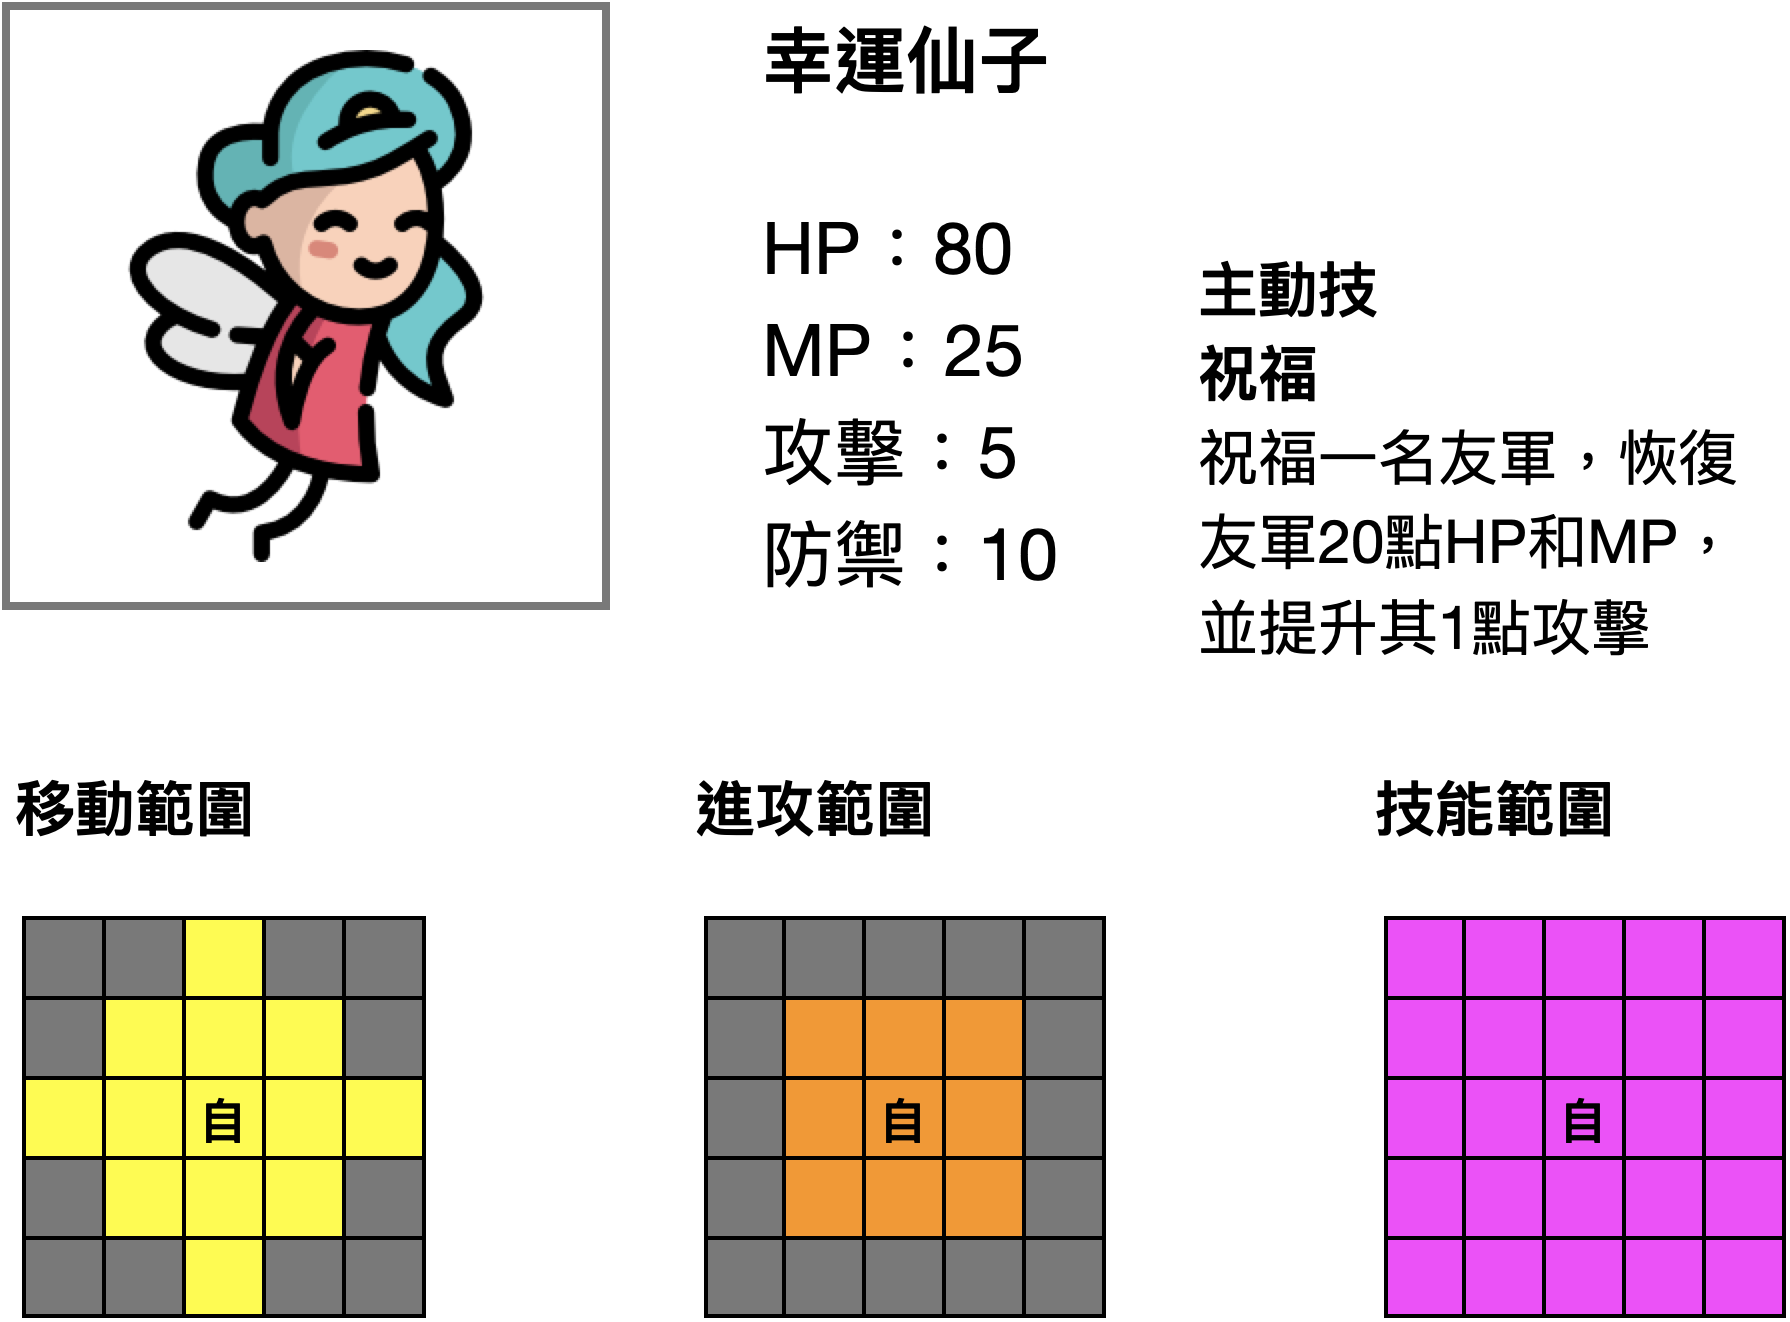
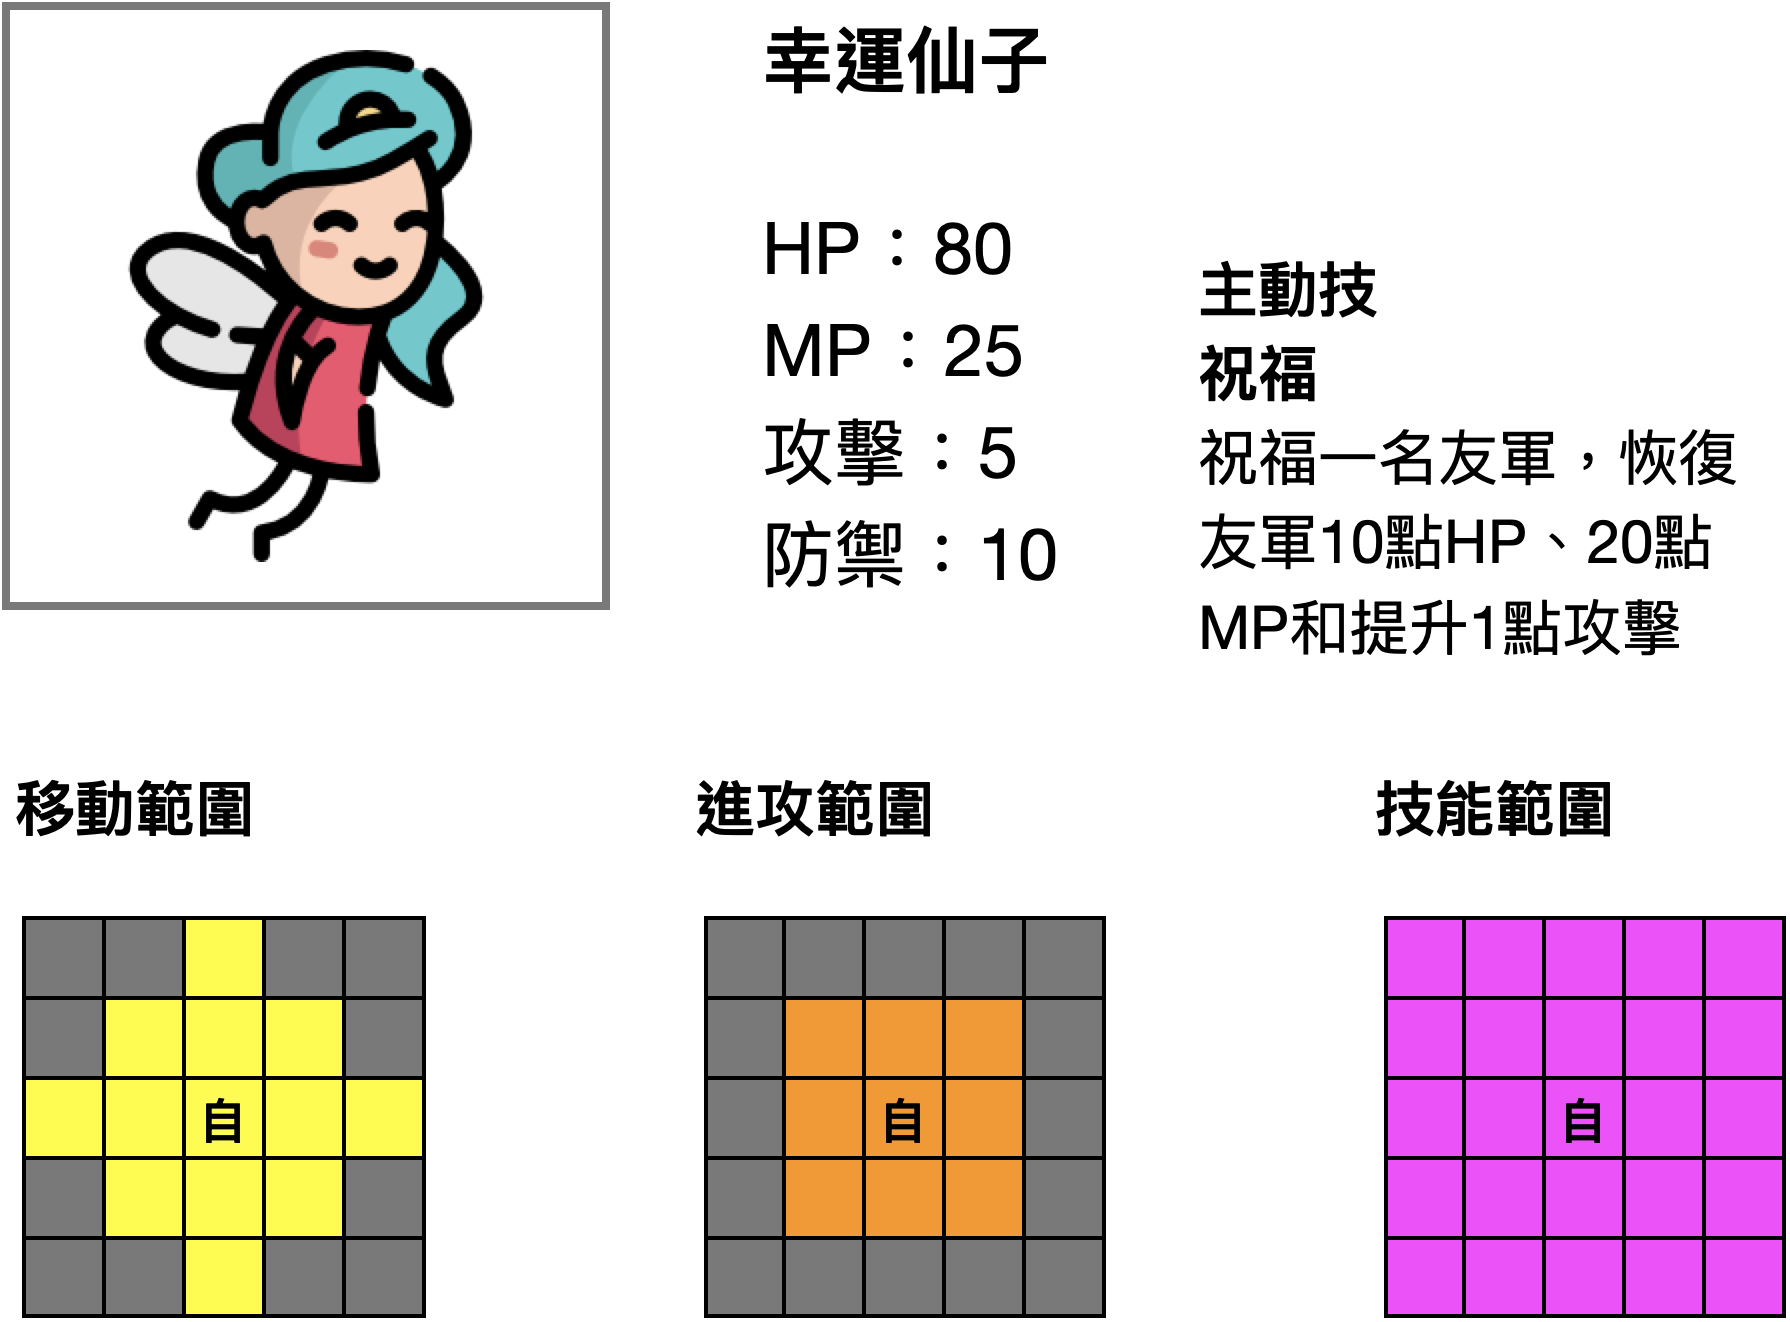
Fix skill selecting target bug

Changed region(s): [[0.6453, 0.3722, 0.9525, 0.4962]]

diff --git a/src/SkillInterface.js b/src/SkillInterface.js
@@ -102,12 +102,15 @@ const skill_羅馬斬 = {
         [1,0,1],
         [1,1,1]
     ],
+    selectTarget(receiverBoards){
+        const idx = Math.floor(Math.random() * receiverBoards.length);
+        return [receiverBoards[idx]];
+    }
+    ,
 
     effect:function(provider,receiverBoards){
         // receiver 為 Board Array
-
-        const idx = Math.floor(Math.random() * receiverBoards.length);
-        var receiver = receiverBoards[idx].occupy;
+        var receiver = receiverBoards[0].occupy;
         provider.hp.decrease(5);
         receiver.hp.decrease(30);
     }
@@ -127,12 +130,14 @@ const skill_海盜砲 = {
         [1,1,1,1,1],
         [1,1,1,1,1]
     ],
-
+    selectTarget(receiverBoards){
+        const idx = Math.floor(Math.random() * receiverBoards.length);
+        return [receiverBoards[idx]];
+    }
+    ,
     effect:function(provider,receiverBoards){
         // receiver 為 Board Array
-
-        const idx = Math.floor(Math.random() * receiverBoards.length);
-        var receiver = receiverBoards[idx].occupy;
+        var receiver = receiverBoards[0].occupy;
         provider.mp.decrease(-5);
         receiver.hp.decrease(20);
     }
@@ -175,16 +180,19 @@ const skill_祝福 = {
         [1,1,1,1,1],
         [1,1,1,1,1]
     ],
-
+    selectTarget(receiverBoards){
+        const idx = Math.floor(Math.random() * receiverBoards.length);
+        return [receiverBoards[idx]];
+    }
+    ,
     effect:function(provider,receiverBoards){
         // receiver 為 Board Array
 
-        const idx = Math.floor(Math.random() * receiverBoards.length);
-        var receiver = receiverBoards[idx].occupy;
+        var receiver = receiverBoards[0].occupy;
         
         receiver.core.atk += 1;
         receiver.mp.decrease(-20);
-        receiver.hp.decrease(-20);
+        receiver.hp.decrease(-10);
     }
 }
 
@@ -228,15 +236,18 @@ const skill_黑暗爆破 = {
         [1,0,1],
         [1,1,1]
     ],
-
-    effect:function(provider,receiverBoards){
-        // receiver 為 Board Array
+    selectTarget(receiverBoards){
         receiverBoards = receiverBoards.sort(
             (x,y) => {
                 let Xatkrange = x.occupy.attackRange.reduce(function(a,b) {return a.concat(b)}).reduce(function(a,b) { return a+b });
                 let Yatkrange = y.occupy.attackRange.reduce(function(a,b) {return a.concat(b)}).reduce(function(a,b) { return a+b });
                 return Yatkrange - Xatkrange;
             })
+        return [receiverBoards[0]];
+    }
+    ,
+    effect:function(provider,receiverBoards){
+        // receiver 為 Board Array
         var receiver = receiverBoards[0].occupy;
         var damage = 5 * receiver.attackRange.reduce(function(a,b) {return a.concat(b)}).reduce(function(a,b) { return a+b });
         damage = Math.min(damage,45);

diff --git a/src/Arena.js b/src/Arena.js
@@ -189,6 +189,7 @@ export default class Arena {
                         combatant.skillTarget = targetArray.map((target)=>{
                             return this.boards[target.row][target.col];
                         });
+                        combatant.skillTarget = combatant.activeSkill.selectTarget(combatant.skillTarget);
                     }else{
                         combatant.skillTarget = null;
                     }   
@@ -204,6 +205,7 @@ export default class Arena {
                         combatant.skillTarget = targetArray.map((target)=>{
                             return this.boards[target.row][target.col];
                         });
+                        combatant.skillTarget = combatant.activeSkill.selectTarget(combatant.skillTarget);
                     }else{
                         combatant.skillTarget = null;
                     }   
